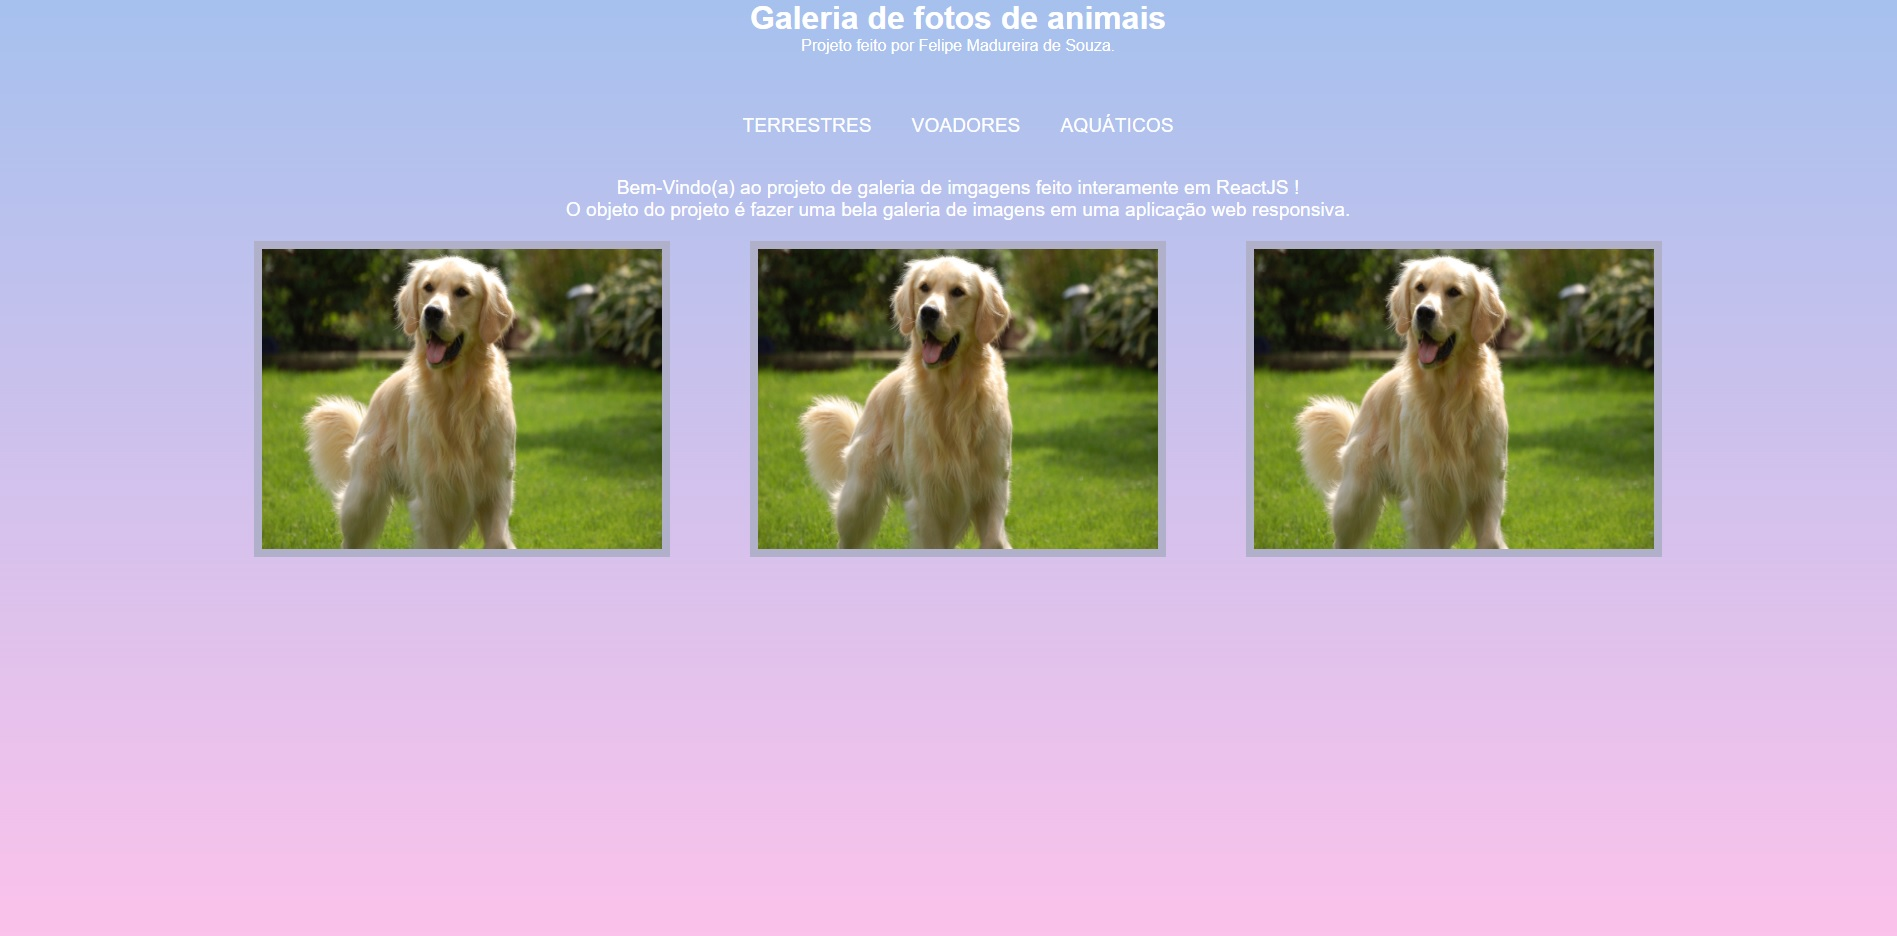
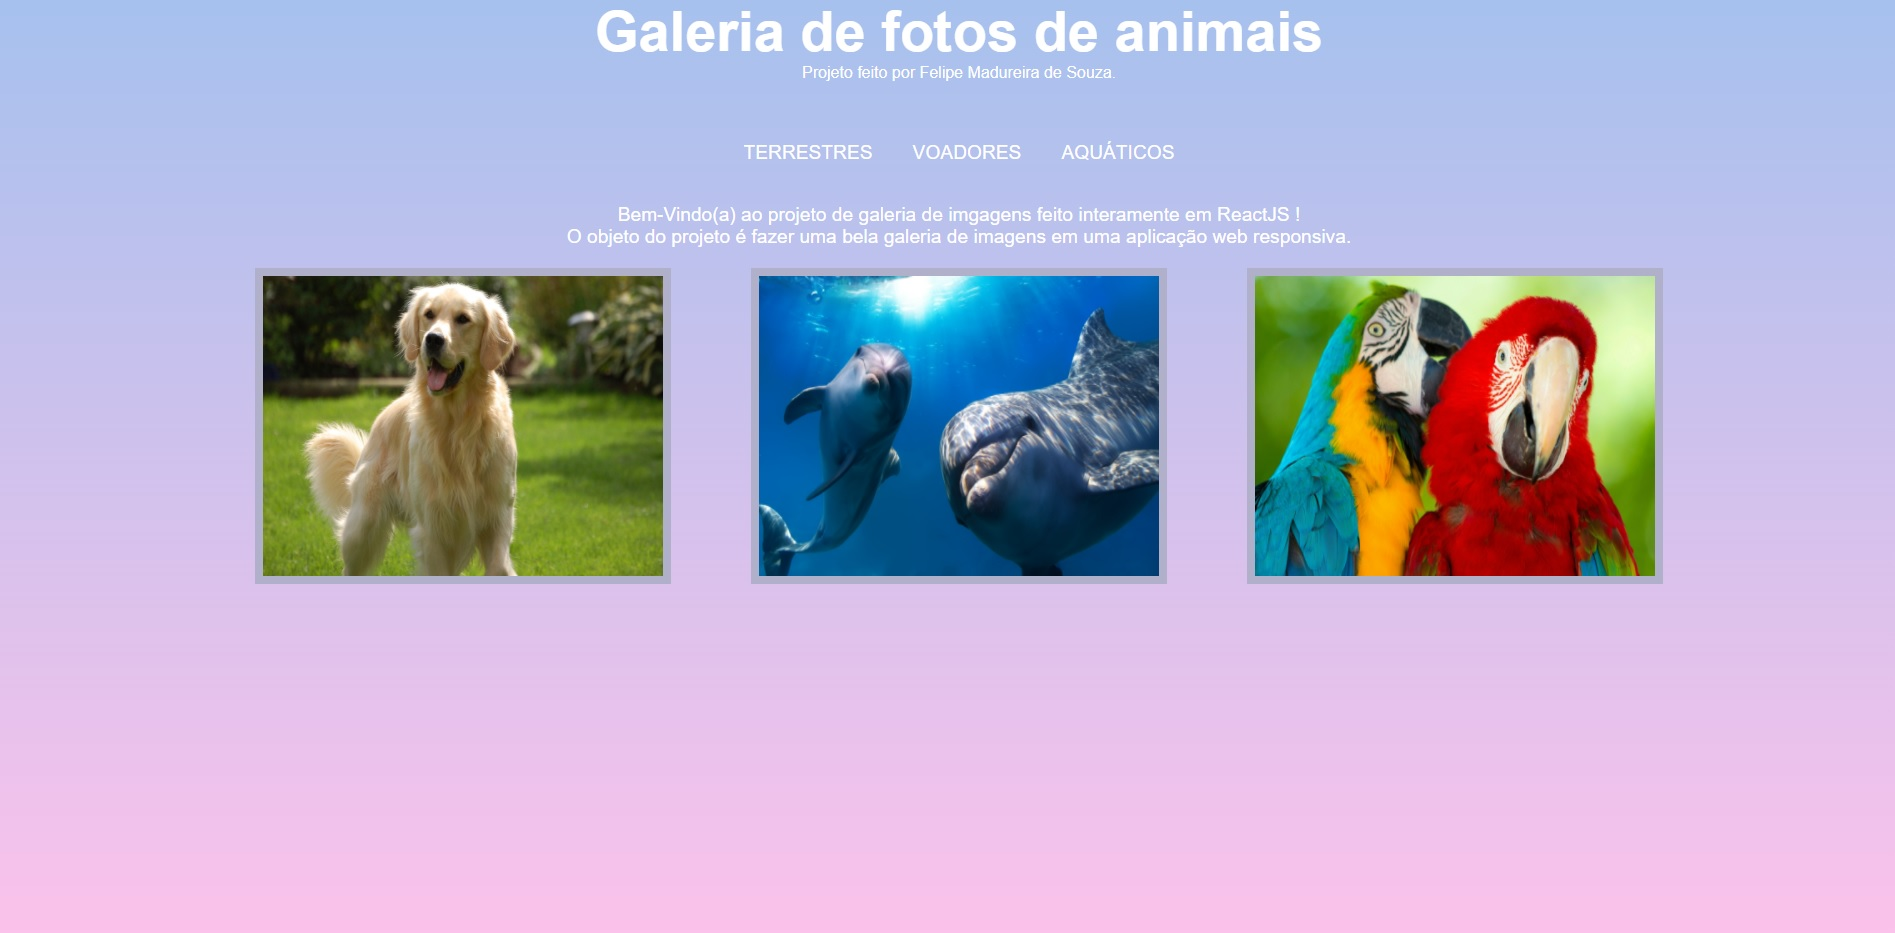
Update

Changed region(s): [[0.1245, 0.1243, 0.9029, 0.6527], [0.3113, 0.0, 0.7161, 0.0932]]

diff --git a/src/App.js b/src/App.js
@@ -1,6 +1,9 @@
 import './App.css';
 import './components/PhotoBox';
 import PhotoBox from './components/PhotoBox';
+import Cachorro from '../src/imgs/cachorro.jpg';
+import Golfinho from '../src/imgs/golfinho.jpg';
+import Papagaio from '../src/imgs/Papagaio.jpg';
 
 function App() {
   return (
@@ -20,9 +23,9 @@ function App() {
           <p>Bem-Vindo(a) ao projeto de galeria de imgagens feito interamente em ReactJS !<br/>O objeto do projeto é fazer uma bela galeria de imagens em uma aplicação web responsiva.</p>
         </div>
         <div className="content-wrapper">
-          <PhotoBox></PhotoBox>
-          <PhotoBox></PhotoBox>
-          <PhotoBox></PhotoBox>
+          <PhotoBox Imagem={Cachorro}></PhotoBox>
+          <PhotoBox Imagem={Golfinho}></PhotoBox>
+          <PhotoBox Imagem={Papagaio}></PhotoBox>
         </div>
       </div>
   );

diff --git a/src/components/PhotoBox.jsx b/src/components/PhotoBox.jsx
@@ -1,10 +1,9 @@
 import './PhotoBox.css'
-import Cachorro from '../imgs/cachorro.jpg'
 
-function PhotoBox(){
+function PhotoBox(props){
     return (
         <div className='PhotoBox'>
-            <img src={Cachorro} alt="Imagem"/>
+            <img src={props.Imagem}/>
         </div>
     )
 }

diff --git a/src/App.css b/src/App.css
@@ -19,6 +19,11 @@ header{
   align-items: center;
 }
 
+header h1{
+  font-size: 3.5rem;
+  text-align: center;
+}
+
 .menu{
   display: flex;
   justify-content: center;
